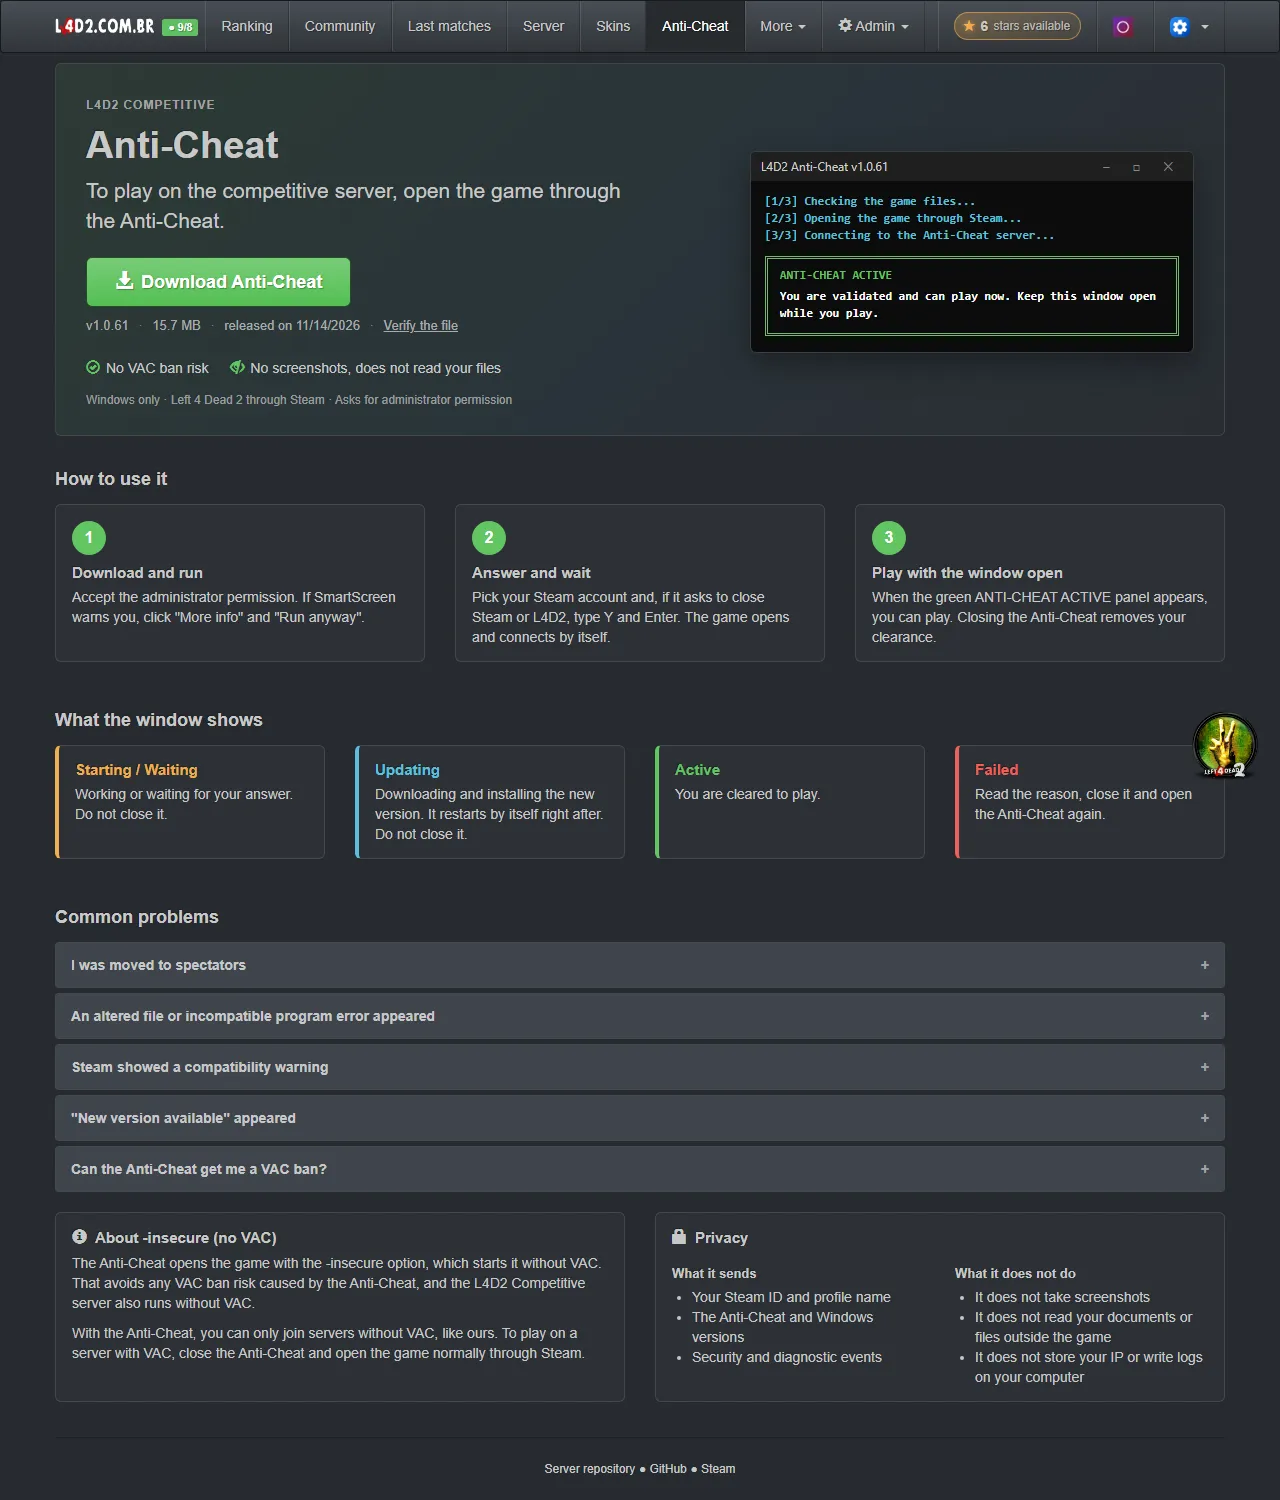
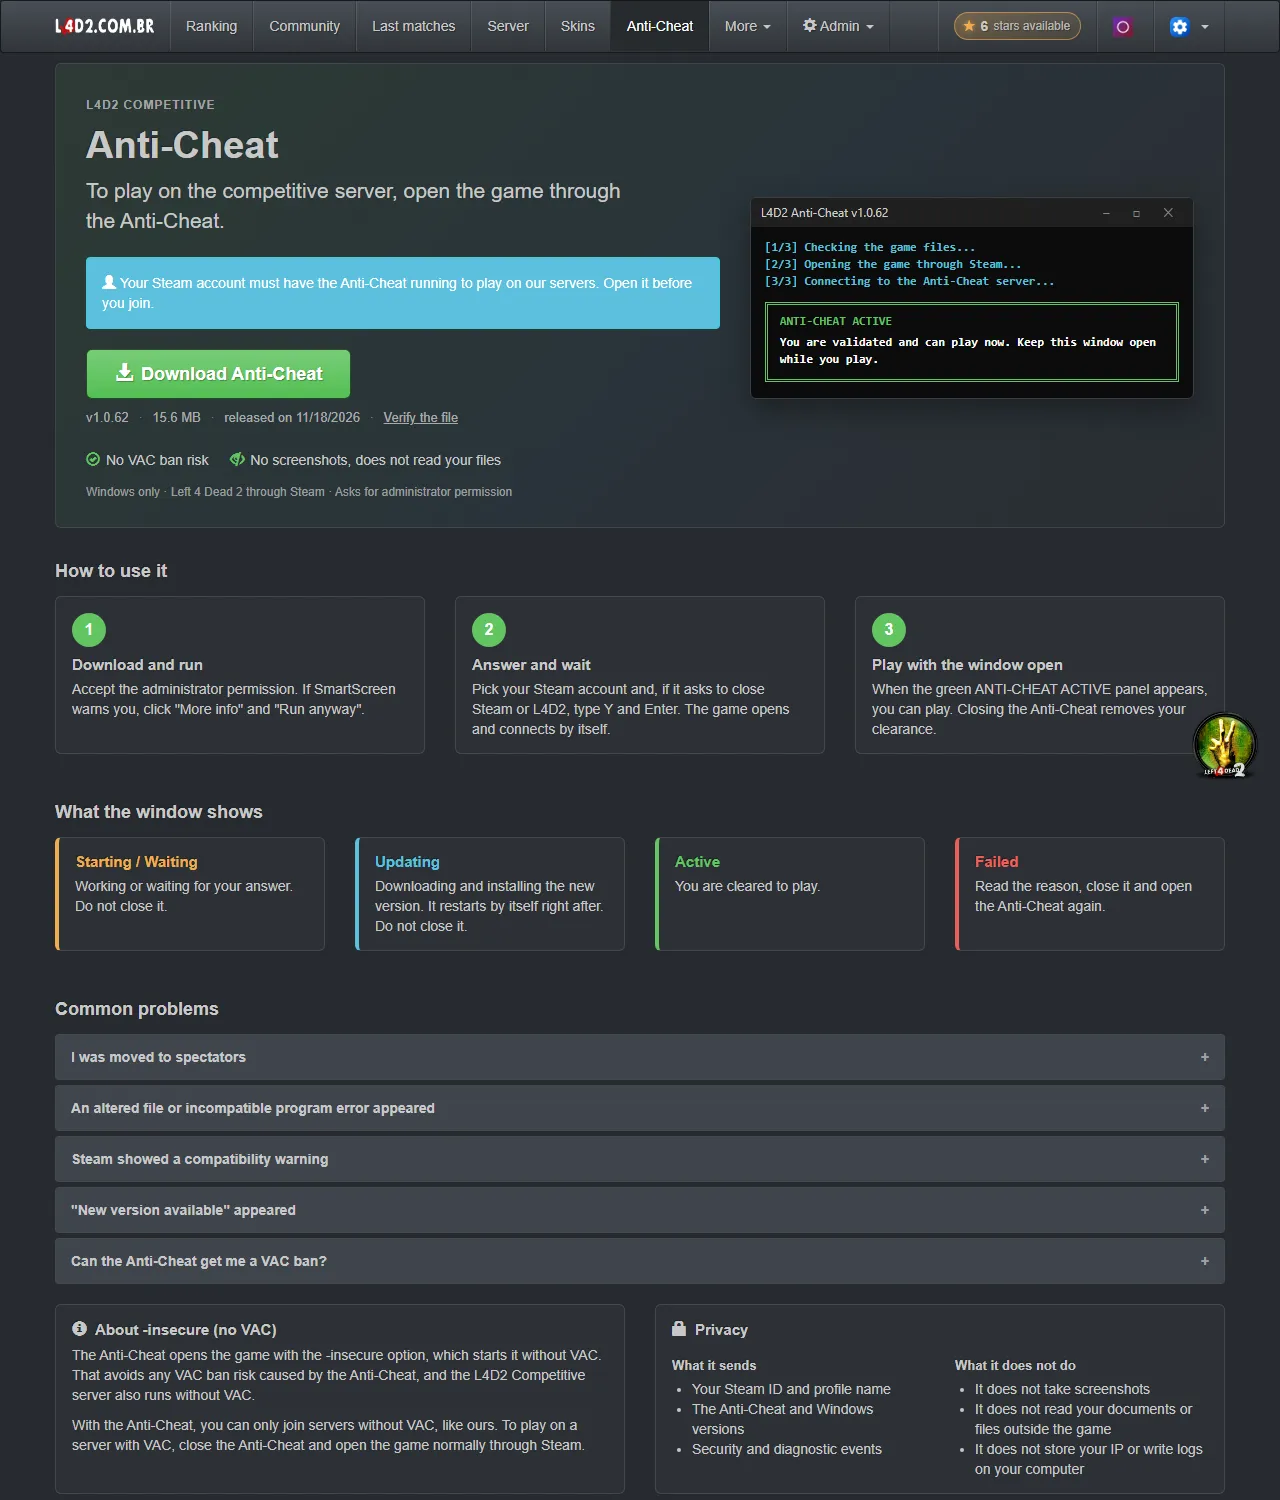
Retake the Anti-Cheat and Anti-Cheat settings screenshots in the three languages with fictional players on the lists, and make the fictional data tool rename the players of the anti-cheat lists

Changed region(s): [[0.0312, 0.1533, 0.9688, 0.9813], [0.5625, 0.092, 0.9375, 0.276], [0.125, 0.0, 0.6875, 0.0307]]

diff --git a/tools/screenshots/site.js b/tools/screenshots/site.js
@@ -47,6 +47,29 @@ async function refundPlayer(runner) {
     }))).then(() => true)`);
 }
 
+async function fillAntiCheat(runner) {
+    const players = runner.context.livePlayers.slice(0, 8);
+    const whitelist = players.slice(0, 2);
+    const required = players.slice(2);
+
+    await runner.signIn(runner.context.admin);
+    await runner.page.goto(runner.url('/admin/anti-cheat'), 300);
+    await runner.page.evaluate(`(async () => {
+        const headers = { RequestVerificationToken: $('input[name="__RequestVerificationToken"]').first().val() };
+        const send = (type, url, data) => $.ajax({ url: url, type: type, headers: headers, contentType: 'application/json', data: JSON.stringify(data) });
+
+        for (const [id, name] of ${JSON.stringify(whitelist)})
+            await send('POST', '/api/anti-cheat-access/whitelist', { player: id, name: name });
+
+        for (const [id, name] of ${JSON.stringify(required)})
+            await send('POST', '/api/anti-cheat-access/required', { player: id, name: name });
+
+        await send('PUT', '/api/anti-cheat-access/mode', { mode: 'listed' });
+
+        return true;
+    })()`);
+}
+
 async function feedLive(runner) {
     const tokens = runner.context.tokens;
 
@@ -130,7 +153,7 @@ function shots(vars) {
         { name: 'admin-chat-bans', path: '/admin/chat-bans', full: true },
         { name: 'admin-remote-commands', path: '/admin/remote-commands', full: true },
         { name: 'admin-player-connections', path: `/admin/player-connections?communityId=${player}`, full: true },
-        { name: 'admin-anti-cheat', path: '/admin/anti-cheat', full: true },
+        { name: 'admin-anti-cheat', path: '/admin/anti-cheat', before: [{ run: fillAntiCheat }, { go: '/admin/anti-cheat' }, hideFloating], full: true },
         { name: 'admin-phone-menu', width: phone, path: '/admin/servers', before: [`$('.admin-menu-toggle').click()`, { sleep: 800 }], full: true, maxHeight: 1100 }
     ];
 }

diff --git a/tools/screenshots/fictional-data.js b/tools/screenshots/fictional-data.js
@@ -20,11 +20,16 @@ const nameColumns = {
     ChatBans: ['CommunityId', 'Name'],
     Administrators: ['CommunityId', 'Name'],
     SkinPurchase: ['CommunityId', 'PlayerName'],
-    RemoteCommandLogs: ['AdministratorCommunityId', 'AdministratorName']
+    RemoteCommandLogs: ['AdministratorCommunityId', 'AdministratorName'],
+    AntiCheatWhitelist: ['CommunityId', 'Name'],
+    AntiCheatRequired: ['CommunityId', 'Name'],
+    AntiCheatAccessSettings: ['UpdatedByCommunityId', 'UpdatedByName']
 };
 const extraNameColumns = {
     ChatBans: [['CreatedByCommunityId', 'CreatedByName']],
-    SkinPurchase: [['GiftedByCommunityId', 'GiftedByName']]
+    SkinPurchase: [['GiftedByCommunityId', 'GiftedByName']],
+    AntiCheatWhitelist: [['AddedByCommunityId', 'AddedByName']],
+    AntiCheatRequired: [['AddedByCommunityId', 'AddedByName']]
 };
 const freeTextColumns = { ChatBans: ['Reason'], Punishments: ['Reason'], RemoteCommandLogs: ['Command'] };
 

diff --git a/tools/screenshots/README.es.md b/tools/screenshots/README.es.md
@@ -67,7 +67,7 @@ El comando `site` espera una carpeta de datos, como la copia ficticia de arriba,
 node tools/screenshots/capture.js site --base http://localhost:5103 --lang en --admin <SteamID64 of an administrator> --player <SteamID64 of a player with matches and stars> --token <token of server 1> --token <token of server 2>
 ```
 
-Antes de las capturas del servidor en vivo envía la partida en vivo de cada servidor, como lo hacen los plugins, con los jugadores de la parte de arriba del ranking del sitio, y espera el retraso de la página en vivo. Reinicia el sitio antes de cada idioma, para que el chat en vivo empiece vacío. Antes de las capturas de la tienda reembolsa las compras del jugador y luego compra la primera skin que el jugador puede pagar. Las capturas del baneo del chat agregan un baneo para `--banned`.
+Antes de las capturas del servidor en vivo envía la partida en vivo de cada servidor, como lo hacen los plugins, con los jugadores de la parte de arriba del ranking del sitio, y espera el retraso de la página en vivo. Reinicia el sitio antes de cada idioma, para que el chat en vivo empiece vacío. Antes de las capturas de la tienda reembolsa las compras del jugador y luego compra la primera skin que el jugador puede pagar. Las capturas del baneo del chat agregan un baneo para `--banned`. Antes de la captura de los ajustes del Anti-Cheat pone a los dos primeros jugadores del ranking en la whitelist y a los seis siguientes en la lista obligatoria, y guarda el modo.
 
 El inicio de sesión de desarrollo no tiene nombre de Steam, así que el menú, las compras y los registros de auditoría muestran `Player <SteamID64>` para el usuario que inició sesión.
 

diff --git a/tools/screenshots/README.pt.md b/tools/screenshots/README.pt.md
@@ -67,7 +67,7 @@ O comando `site` espera uma pasta de dados, como a cópia fictícia acima, com:
 node tools/screenshots/capture.js site --base http://localhost:5103 --lang en --admin <SteamID64 of an administrator> --player <SteamID64 of a player with matches and stars> --token <token of server 1> --token <token of server 2>
 ```
 
-Antes das capturas do servidor ao vivo, ela envia a partida ao vivo de cada servidor, do jeito que os plugins fazem, com os jogadores do topo do ranking do site, e espera o atraso da página ao vivo. Reinicie o site antes de cada idioma, para que o chat ao vivo comece vazio. Antes das capturas da loja, ela faz o reembolso das compras do jogador e depois compra a primeira skin que o jogador consegue pagar. As capturas de banimento do chat adicionam um banimento para o `--banned`.
+Antes das capturas do servidor ao vivo, ela envia a partida ao vivo de cada servidor, do jeito que os plugins fazem, com os jogadores do topo do ranking do site, e espera o atraso da página ao vivo. Reinicie o site antes de cada idioma, para que o chat ao vivo comece vazio. Antes das capturas da loja, ela faz o reembolso das compras do jogador e depois compra a primeira skin que o jogador consegue pagar. As capturas de banimento do chat adicionam um banimento para o `--banned`. Antes da captura das configurações do Anti-Cheat, ela coloca os dois primeiros jogadores do ranking na whitelist e os seis seguintes na lista obrigatória, e salva o modo.
 
 O login de desenvolvimento não tem nome do Steam, então o menu, as compras e os registros de auditoria mostram `Player <SteamID64>` para o usuário logado.
 

diff --git a/tools/screenshots/README.md b/tools/screenshots/README.md
@@ -67,7 +67,7 @@ The `site` command expects a data folder, such as the fictional copy above, with
 node tools/screenshots/capture.js site --base http://localhost:5103 --lang en --admin <SteamID64 of an administrator> --player <SteamID64 of a player with matches and stars> --token <token of server 1> --token <token of server 2>
 ```
 
-Before the live server shots it sends the live match of each server, the way the plugins do, with the players at the top of the ranking of the site, and waits for the delay of the live page. Restart the site before each language, so the live chat starts empty. Before the shop shots it refunds the purchases of the player, then buys the first skin the player can afford. The chat ban shots add a ban for `--banned`.
+Before the live server shots it sends the live match of each server, the way the plugins do, with the players at the top of the ranking of the site, and waits for the delay of the live page. Restart the site before each language, so the live chat starts empty. Before the shop shots it refunds the purchases of the player, then buys the first skin the player can afford. The chat ban shots add a ban for `--banned`. Before the Anti-Cheat settings shot it puts the first two players of the ranking on the whitelist and the next six on the required list, and saves the mode.
 
 The development sign-in has no Steam name, so the menu, the purchases and the audit logs show `Player <SteamID64>` for the signed-in user.
 
